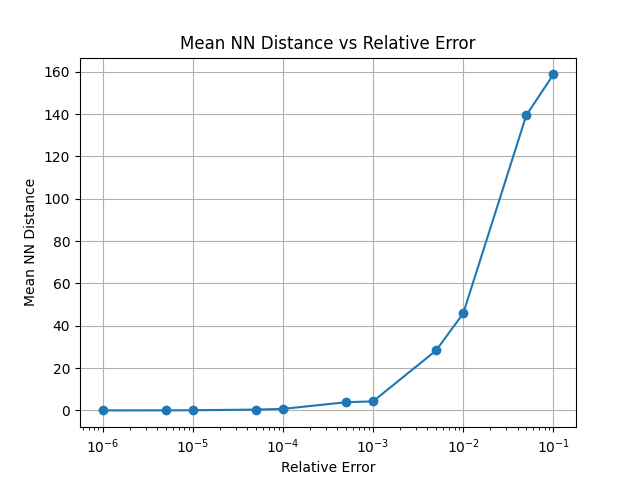
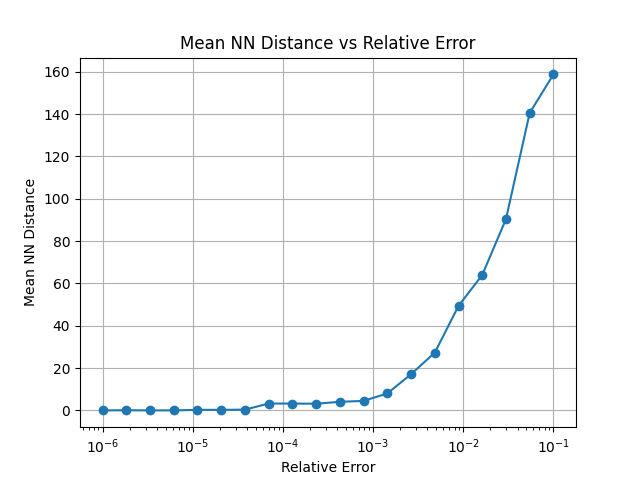
CR added and more configurations

Changed region(s): [[0.6875, 0.1875, 0.8438, 0.7188], [0.1875, 0.7188, 0.6875, 0.875]]

diff --git a/run_pressio_pipeline.py b/run_pressio_pipeline.py
@@ -4,12 +4,13 @@ import os
 import pandas as pd
 import matplotlib.pyplot as plt
 import csv
-
-
+import numpy as np
+rel_errors = np.logspace(-6, -1, num=20).tolist()
 input_file = "/home/ziweiq2/LibPressio/dataset/SDRBENCH-EXASKY-NYX-512x512x512/baryon_density.f32"
 dims = [512, 512, 512]
 halo_exe = "/home/ziweiq2/halo/reeber/build/examples/amr-connected-components/amr_connected_components_float"
-rel_errors = [1e-1 ,5e-2 ,1e-2, 5e-3 ,1e-3, 5e-4, 1e-4 ,5e-5, 1e-5, 5e-6, 1e-6]
+# rel_errors.append([1e-1 ,5e-2 ,1e-2, 5e-3 ,1e-3, 5e-4, 1e-4 ,5e-5, 1e-5, 5e-6, 1e-6])
+# rel_errors = [1e-1 ,5e-2]
 external_script = "halo_dual_pressio.py"
 pressio = "pressio"
 
@@ -29,7 +30,25 @@ for rel in rel_errors:
         "-o", "external:use_many=1",
         "-o", f"external:command=python3 {external_script} --external_exe {halo_exe}"
     ]
-    subprocess.run(pressio_cmd, check=True)
+    # subprocess.run(pressio_cmd, check=True)
+    # ✅ Run Pressio and capture output
+    pressio_out = subprocess.run(pressio_cmd, check=True, capture_output=True, text=True)
+
+    # ✅ Parse compression_ratio from pressio output
+    comp_ratio = None
+    for line in pressio_out.stderr.splitlines():
+        if "size:compression_ratio" in line:
+            try:
+                comp_ratio = float(line.split("=")[1].strip())
+            except:
+                comp_ratio = None
+            break
+
+    if comp_ratio is None:
+        print("⚠  Warning: compression_ratio not found for this rel. Check if -m size is enabled.")
+    else:
+        print(f"✅ compression_ratio = {comp_ratio}")
+
 
 
     with open("halo_metrics.csv") as f:
@@ -40,7 +59,10 @@ for rel in rel_errors:
         p99 = float(r["p99"])
         wdist = float(r["wasserstein"])
 
-    csv_rows.append([rel, mean, median, p90, p99, wdist])
+
+
+    # csv_rows.append([rel, mean, median, p90, p99, wdist])
+    csv_rows.append([rel, mean, median, p90, p99, wdist, comp_ratio])
 
     os.rename("halo_original.csv", f"halo_original_rel{rel}.csv")
     os.rename("halo_decompressed.csv", f"halo_decompressed_rel{rel}.csv")
@@ -51,7 +73,8 @@ for rel in rel_errors:
             os.remove(f)
 
 
-df = pd.DataFrame(csv_rows, columns=["rel_error", "mean", "median", "p90", "p99", "wasserstein"])
+# df = pd.DataFrame(csv_rows, columns=["rel_error", "mean", "median", "p90", "p99", "wasserstein"])
+df = pd.DataFrame(csv_rows, columns=["rel_error", "mean", "median", "p90", "p99", "wasserstein", "compression_ratio"])  # ✅ NEW
 df.to_csv("metrics_summary.csv", index=False)
 print("\n✅ Saved metrics_summary.csv")
 
@@ -75,4 +98,6 @@ plot_metric("median", "median_vs_relerror.png", "Median NN Distance")
 plot_metric("p90", "p90_vs_relerror.png", "90% NN Distance")
 plot_metric("p99", "p99_vs_relerror.png", "99% NN Distance")
 plot_metric("wasserstein", "wasserstein_vs_relerror.png", "Wasserstein Mass Distance")
+plot_metric("compression_ratio", "compression_ratio_vs_relerror.png", "Compression Ratio")  
+
 
